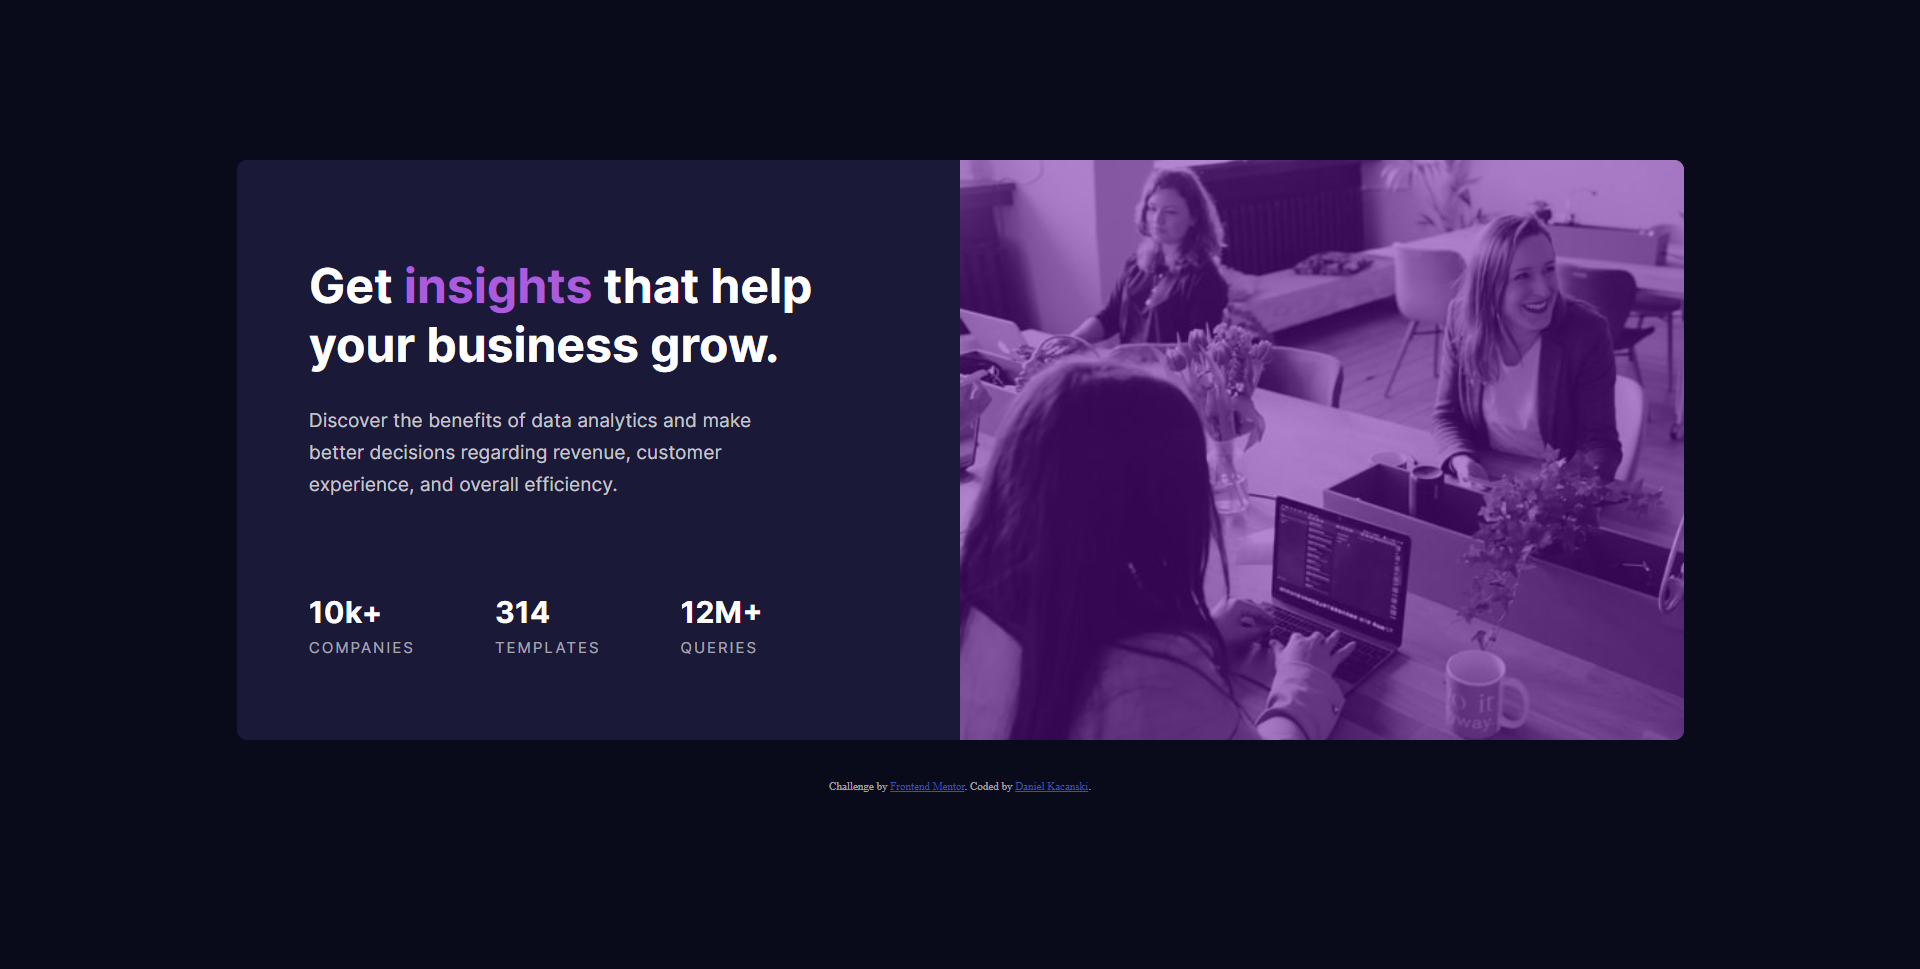
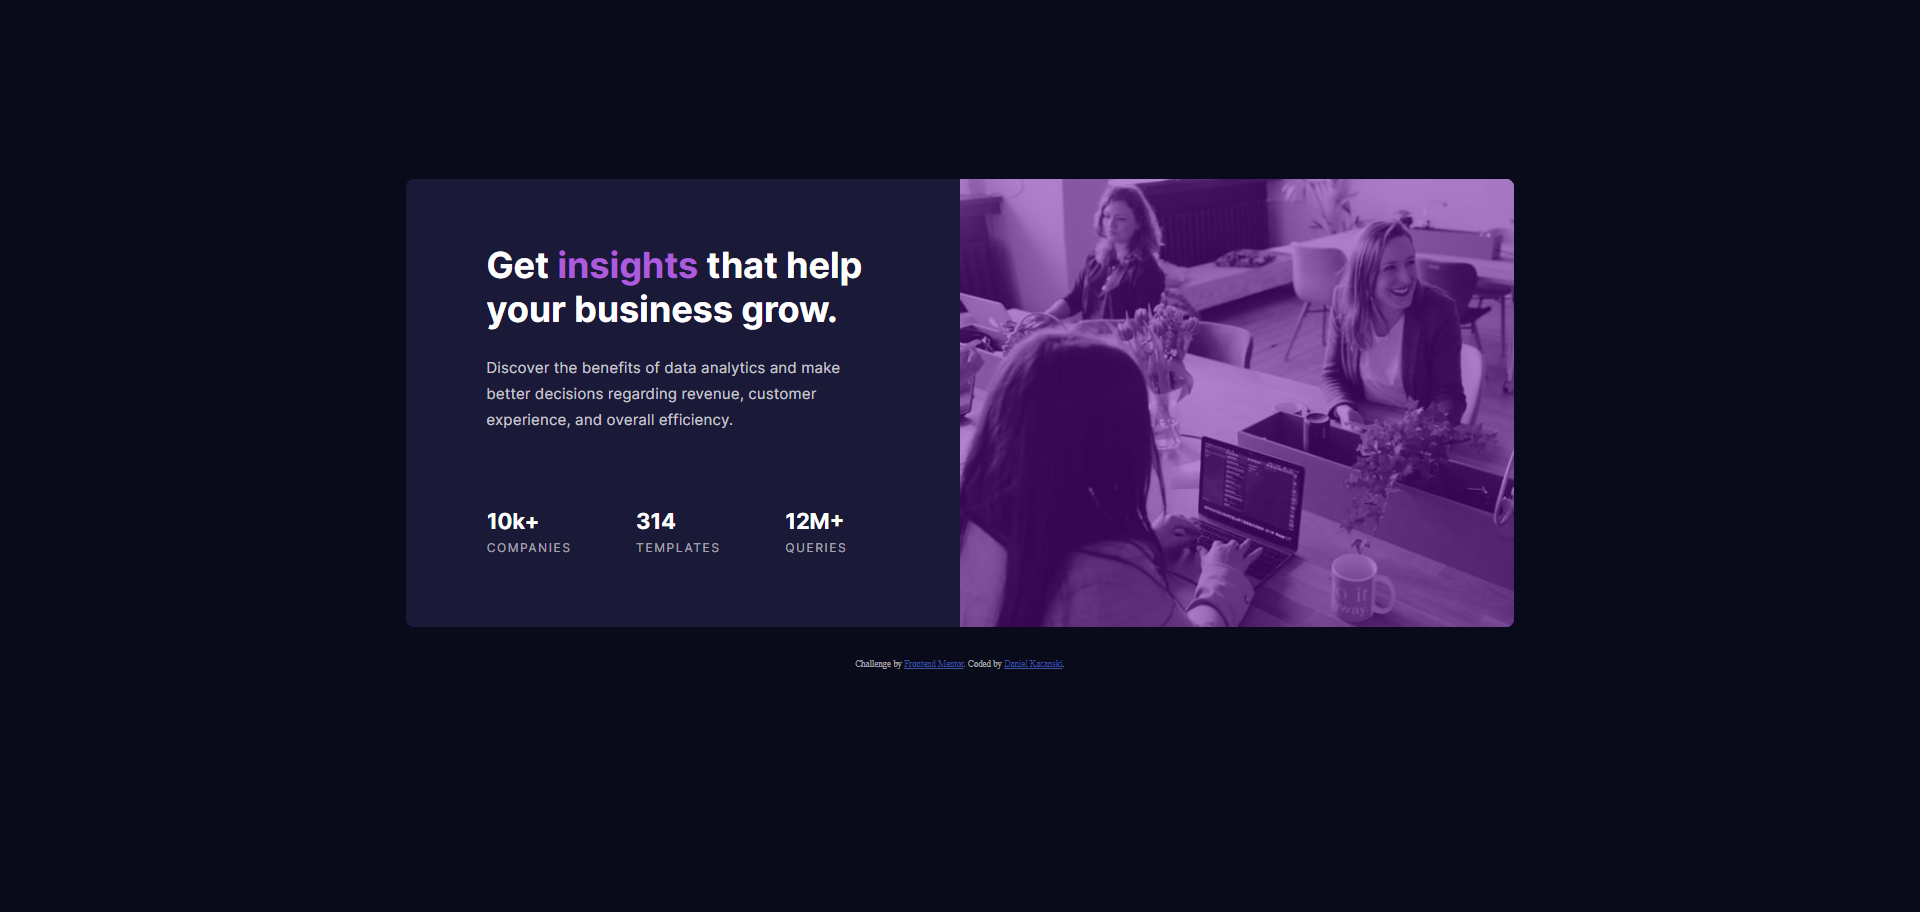
first commit

diff --git a/css/style.css b/css/style.css
@@ -12,9 +12,9 @@ body {
 #main-container {
   display: flex;
   background-color: hsl(244, 38%, 16%);
-  width: 1447px;
-  height: 580px;
-  margin-top: 17.5rem;
+  width: 1385px;
+  height: 560px;
+  margin-top: 14rem;
   margin-left: auto;
   margin-right: auto;
   border-radius: 10px;
@@ -23,27 +23,27 @@ body {
 
 /* 1st side = text content */
 #one-side {
-  width: 723.5px;
+  width: 692.5px;
   border-radius: 10px;
 }
 
 /* DIV OF MAIN SECTION => WHOLE CONTENT with out image*/
 .content {
-  margin-left: auto;
-  margin-right: auto;
-  width: 80%;
-  margin-top: 6rem;
+  margin-top: 5rem;
 }
 
 /* DIV OF MAIN HEADING AND PARAGRAPH*/
 .text {
   font-family: "Inter", sans-serif;
   text-align: left;
+  width: 71%;
+  margin-left: auto;
+  margin-right: auto;
 }
 
 h1 {
   color: hsl(0, 0%, 100%);
-  font-size: 3rem;
+  font-size: 2.8rem;
   font-weight: 700;
   padding-bottom: 30px;
 }
@@ -57,14 +57,13 @@ span {
   font-weight: 400;
   font-size: 1.2rem;
   line-height: 1.7;
-  width: 80%;
 }
 
 /* +++++++++++++++++++++++++++++++++++++++++++++++++++++++++ */
 
 /* 2nd side = image content */
 #second-side {
-  width: 723.5px;
+  width: 692.5px;
   height: 100%;
   position: relative;
   background-image: url("/images/image-header-desktop.jpg");
@@ -87,9 +86,18 @@ span {
 /* REACH SECTION */
 .reach {
   display: flex;
-  gap: 5rem;
   line-height: 1.6;
   margin-top: 5.5rem;
+  justify-content: space-evenly;
+}
+
+.companies {
+  margin-left: -40px;
+}
+
+.queries,
+.templates {
+  margin-left: -60px;
 }
 
 h2,
@@ -98,7 +106,7 @@ h4 {
   font-family: "Inter", sans-serif;
   font-weight: 700;
   color: hsl(0, 0%, 100%);
-  font-size: 1.9rem;
+  font-size: 1.7rem;
 }
 
 .reach p {
@@ -191,6 +199,12 @@ h4 {
     margin-bottom: 28px;
   }
 
+  .companies,
+  .templates,
+  .queries {
+    margin-left: 0px;
+  }
+
   h2,
   h3,
   h4 {
@@ -207,3 +221,12 @@ h4 {
     margin-bottom: 30px;
   }
 }
+
+/* .companies {
+  margin-left: -40px;
+}
+
+.queries,
+.templates {
+  margin-left: -60px;
+} */
